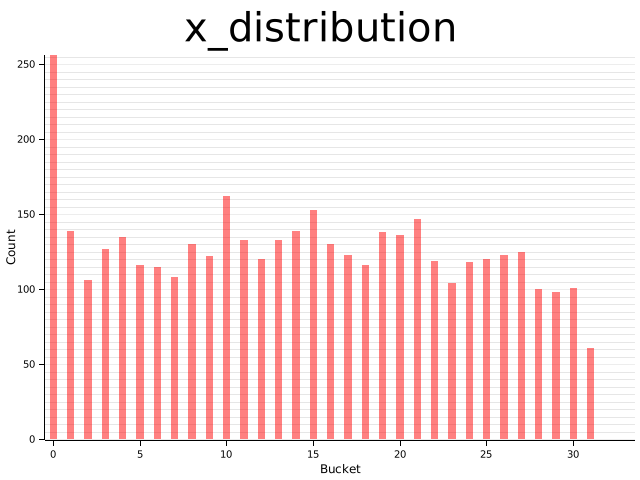
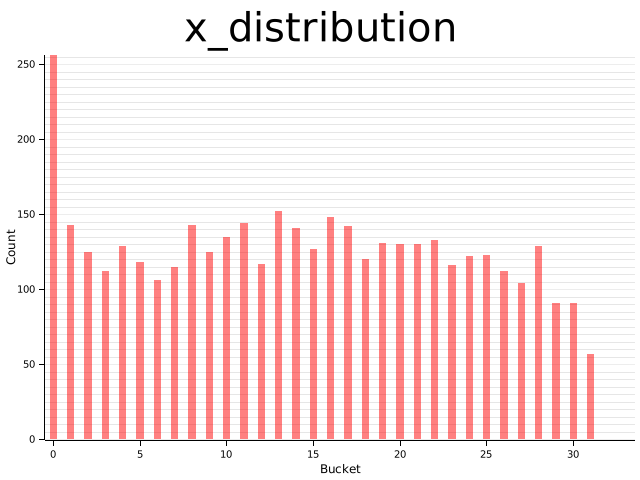
feat: plot distributions

diff --git a/src/particle_mesh.rs b/src/particle_mesh.rs
@@ -36,13 +36,15 @@ mod tests {
         let average_density = (N_CELLS / N_PARTICLES).pow(3) as f64;
         let rho: Array3<f64> = gaussian_random_field(0.845, 3.685);
         let (positions, velocities): (Array2<f64>, Array2<f64>) = initial_conditions(rho.clone());
-        let a = positions
-            .slice(s![0, ..])
-            .to_vec()
-            .iter()
-            .map(|x| *x as u32)
-            .collect::<Vec<u32>>();
-        println!("{:?}", positions.shape());
-        hist(a, Some("x_distribution".to_string()));
+        ['x', 'y', 'z'].iter().enumerate().for_each(|(dir, c)| {
+            let a = positions
+                .slice(s![dir, ..])
+                .to_vec()
+                .iter()
+                .map(|x| *x as u32)
+                .collect::<Vec<u32>>();
+            println!("{:?}", positions.shape());
+            hist(a, Some(format!("{}_distribution", c)));
+        })
     }
 }
